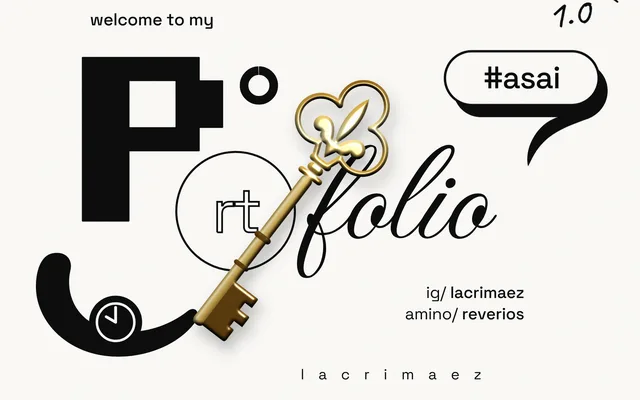
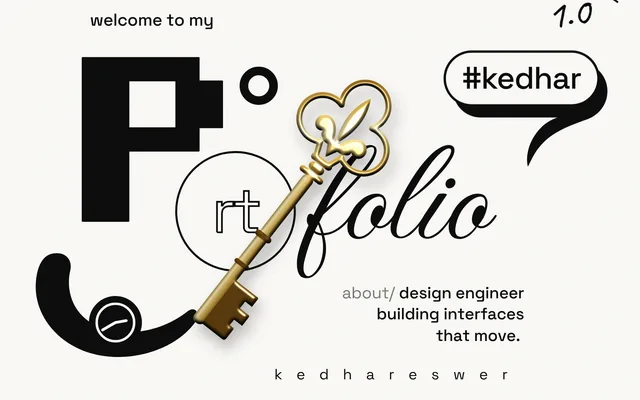
skeleton-key-preloader: make it Kedhar's own
Drop the reference moodboard's placeholder identity (#asai, lacrimaez,
amino/reverios) for Kedhar's: #kedhar tag, kedhareswer signature, and a
typed about/ block with a blinking caret in place of the handles. Links
move to the bottom bar, the clock winds to the visitor's local time, and
the loop ends on a card with the name in script and the about line. The
gate demo's page is now an about page; a test keeps the old handles out.

Claude-Session: https://claude.ai/code/session_01AgzQVJejCPn6EzuaHZcvFC

diff --git a/components/skeleton-key-preloader/skeleton-key-preloader.tsx b/components/skeleton-key-preloader/skeleton-key-preloader.tsx
@@ -4,7 +4,8 @@
 // portfolio loads, then unlocks it. The word is cut four ways: a bitmap letter
 // printed pixel by pixel, a superscript ring, a monogram inside a dial that
 // doubles as the progress ring, and the rest in quill script, with a pill tag,
-// two ink swooshes, a clock, the handles and a spaced signature around it. A
+// two ink swooshes, a clock set to the visitor's time, a typed line about you
+// and your spaced signature around it. A
 // gilded skeleton key drops in on a spring early on and hangs over the whole
 // thing.
 //
@@ -24,13 +25,6 @@
 import * as React from "react"
 
 export type SkeletonKeyMetal = "gold" | "silver" | "rose" | "bronze"
-
-export interface SkeletonKeyHandle {
-  /** The prefix, set lighter: "ig/". */
-  label: string
-  /** The handle itself: "lacrimaez". */
-  value: string
-}
 
 export interface SkeletonKeyPreloaderProps {
   /** Content revealed through the keyhole. Ignored while `loop` is set. */
@@ -58,8 +52,14 @@ export interface SkeletonKeyPreloaderProps {
   word?: string
   /** Pill tags. Tap the pill to cycle through them. */
   tags?: string[]
-  /** The stacked handles beside the script. */
-  handles?: SkeletonKeyHandle[]
+  /** Your full name: the end card and the accessible label. */
+  name?: string
+  /** The light prefix on the about block. */
+  aboutLabel?: string
+  /** A few short lines about you, typed out beside the script. */
+  about?: string[]
+  /** Where to find you, along the bottom edge. */
+  links?: string[]
   /** The letter-spaced signature along the bottom. */
   signature?: string
   /** What the handwritten version lands on at 100. It counts 0.0 → 0.9 first. */
@@ -114,7 +114,7 @@ const OPEN_MS = 1500
 const AFTER_MS = 1700
 
 // When each piece arrives, as a percentage of the load.
-const AT = { greet: 1, key: 6, sup: 14, mono: 24, tag: 33, script: 43, blob: 53, clock: 57, handles: 66, sig: 76 }
+const AT = { greet: 1, key: 6, sup: 14, mono: 24, tag: 33, script: 43, blob: 53, clock: 57, about: 64, sig: 78 }
 
 // #region timeline
 // Pure helpers, lifted out and executed by tests/skeleton-key-preloader.test.mjs.
@@ -408,11 +408,16 @@ const SKP_CSS = `
 .skp-hand { stroke: var(--skp-paper); stroke-width: 3.6; stroke-linecap: round; transform-box: view-box; transition: transform 380ms cubic-bezier(.3, 1.4, .5, 1); }
 .skp-clock:hover .skp-hand-m { animation: skp-spin 700ms linear infinite; }
 
-.skp-handles {
-  left: 640px; top: 452px; width: 250px; text-align: right; font: 400 21px/1.3 var(--skp-grotesk); letter-spacing: -.01em;
+.skp-about {
+  left: 600px; top: 452px; width: 290px; text-align: right; font: 500 21px/1.3 var(--skp-grotesk); letter-spacing: -.01em;
 }
-.skp-handles > div { white-space: pre; }
-.skp-handles b { font-weight: 500; }
+.skp-about > div { white-space: pre; }
+.skp-about i { font-style: normal; font-weight: 400; opacity: .55; }
+.skp-caret {
+  display: inline-block; width: 2px; height: .95em; margin-left: 3px; vertical-align: -.12em; background: var(--skp-ink);
+  opacity: 0; transition: opacity 200ms ease;
+}
+.skp-about[data-on="true"] .skp-caret { opacity: 1; animation: skp-blink 1s steps(1) infinite; }
 
 .skp-sig { left: 470px; top: 560px; width: 500px; text-align: center; font: 400 19px/1 var(--skp-grotesk); letter-spacing: .95em; white-space: nowrap; padding-left: .95em; }
 .skp-sig span { display: inline-block; min-width: .6em; text-align: center; opacity: 0; transition: opacity 200ms ease; }
@@ -441,7 +446,10 @@ const SKP_CSS = `
   padding: 0 clamp(16px, 3vw, 36px) clamp(16px, 3vh, 30px); font: 400 11px/1.4 var(--skp-mono); letter-spacing: .14em;
   text-transform: uppercase; color: var(--skp-ink); pointer-events: none; transition: opacity 300ms ease;
 }
-.skp-hud > span { opacity: .62; white-space: nowrap; }
+.skp-hud > span { opacity: .62; white-space: nowrap; flex: 1 1 0; }
+.skp-hud > span:nth-child(2) { text-align: center; }
+.skp-hud > span:nth-child(3) { text-align: right; }
+@media (max-width: 640px) { .skp-hud-links { display: none; } .skp-hud > span:nth-child(2) { text-align: right; } }
 .skp-hud-hint { transition: opacity 400ms ease; }
 .skp-hud-hint[data-off="true"] { opacity: 0 !important; }
 .skp-gate[data-lock="true"] .skp-hud { opacity: 0; }
@@ -457,20 +465,22 @@ const SKP_CSS = `
   position: absolute; inset: 0; z-index: 1; display: flex; flex-direction: column; align-items: center; justify-content: center; gap: 18px;
   background: var(--skp-ink); color: var(--skp-paper); text-align: center;
 }
-.skp-after-sig { font: 400 clamp(64px, 12vw, 170px)/1.2 var(--skp-script-face); padding: 0 .3em; }
-.skp-after-k { font: 400 11px/1.4 var(--skp-mono); letter-spacing: .3em; text-transform: uppercase; opacity: .7; }
+.skp-after-sig { font: 400 clamp(64px, 12vw, 170px)/1.2 var(--skp-script-face); padding: 0 .3em; animation: skp-fade 900ms 200ms ease both; }
+.skp-after-about { font: 400 clamp(15px, 1.6vw, 19px)/1.5 var(--skp-grotesk); max-width: 44ch; text-wrap: balance; opacity: .85; animation: skp-fade 900ms 500ms ease both; }
+.skp-after-k { font: 400 11px/1.4 var(--skp-mono); letter-spacing: .3em; text-transform: uppercase; opacity: .55; animation: skp-fade 900ms 800ms ease both; }
 
 @keyframes skp-fade { from { opacity: 0; } }
 @keyframes skp-flip { from { opacity: 0; transform: translateY(-.4em) rotate(-12deg); } }
 @keyframes skp-roll { from { opacity: 0; transform: translateY(.8em); } }
 @keyframes skp-rise { from { opacity: 0; translate: -50% 14px; } }
 @keyframes skp-spin { to { transform: rotate(360deg); } }
+@keyframes skp-blink { 50% { opacity: 0; } }
 @keyframes skp-beckon { 50% { transform: scale(1.045) rotate(4deg); } }
 @keyframes skp-grain { 25% { transform: translate(-3%, 2%); } 50% { transform: translate(2%, -3%); } 75% { transform: translate(-1%, -2%); } }
 @keyframes skp-shake { 20% { transform: translate(-3px, 1px); } 45% { transform: translate(2px, -1px); } 70% { transform: translate(-1px, 0); } }
 
 @media (prefers-reduced-motion: reduce) {
-  .skp-gate, .skp-grain, .skp-shake, .skp-dial-rot, .skp-ver-num span, .skp-pill span, .skp-turn, .skp-clock:hover .skp-hand-m { animation: none !important; }
+  .skp-gate, .skp-grain, .skp-shake, .skp-dial-rot, .skp-caret, .skp-after-sig, .skp-after-about, .skp-after-k, .skp-ver-num span, .skp-pill span, .skp-turn, .skp-clock:hover .skp-hand-m { animation: none !important; }
   .skp-par { translate: none; }
   .skp-ch, .skp-pill, .skp-px, .skp-clock, .skp-mono { transform: none !important; }
   .skp-script-in, .skp-tag-swoosh, .skp-blob-ink { clip-path: none !important; }
@@ -563,9 +573,11 @@ function SwooshArt() {
 }
 
 /** The ink stroke along the bottom left, with the clock riding on it. */
-function BlobArt({ pct }: { pct: number }) {
-  const m = pct * 7.2
-  const h = 210 + pct * 0.9
+function BlobArt({ pct, time }: { pct: number; time: { h: number; m: number } }) {
+  // the hands wind from twelve to the visitor's own time as the page loads
+  const k = skpEase(pct / 100)
+  const m = (360 + time.m * 6) * k
+  const h = ((time.h % 12) * 30 + time.m * 0.5) * k
   return (
     <svg viewBox="0 0 220 150" aria-hidden="true">
       <path
@@ -640,12 +652,12 @@ export default function SkeletonKeyPreloader({
   unlock = "auto",
   greeting = "welcome to my",
   word = "portfolio",
-  tags = ["#asai", "#motion", "#visuals", "#archive"],
-  handles = [
-    { label: "ig/", value: "lacrimaez" },
-    { label: "amino/", value: "reverios" },
-  ],
-  signature = "lacrimaez",
+  tags = ["#kedhar", "#design", "#motion", "#code"],
+  name = "Kedhareswer Naidu",
+  aboutLabel = "about/",
+  about = ["design engineer", "building interfaces", "that move."],
+  links = ["21st.dev/@kedhareswer", "kedhar.vercel.app"],
+  signature = "kedhareswer",
   release = "1.0",
   metal = "gold",
   paper = "#fbfaf7",
@@ -671,6 +683,7 @@ export default function SkeletonKeyPreloader({
   const [ready, setReady] = React.useState(false)
   const [drag, setDrag] = React.useState(false)
   const [reduced, setReduced] = React.useState(false)
+  const [time, setTime] = React.useState({ h: 10, m: 10 })
 
   const rootRef = React.useRef(null as HTMLDivElement | null)
   const gateRef = React.useRef(null as HTMLDivElement | null)
@@ -704,6 +717,11 @@ export default function SkeletonKeyPreloader({
     light: { x: 40, y: 60 },
     zoom: { z: 1, cx: FOCUS.x, cy: FOCUS.y },
   })
+
+  React.useEffect(() => {
+    const d = new Date()
+    setTime({ h: d.getHours(), m: d.getMinutes() })
+  }, [run])
 
   React.useEffect(() => {
     const mq = window.matchMedia("(prefers-reduced-motion: reduce)")
@@ -1048,7 +1066,8 @@ export default function SkeletonKeyPreloader({
       {loop ? null : children}
       {loop && (phase === "open" || phase === "after") ? (
         <div className="skp-after" aria-hidden="true">
-          <div className="skp-after-sig">{signature}</div>
+          <div className="skp-after-sig">{name.split(" ")[0]}</div>
+          <div className="skp-after-about">{about.join(" ")}</div>
           <div className="skp-after-k">
             {word} {release} — unlocked
           </div>
@@ -1064,7 +1083,7 @@ export default function SkeletonKeyPreloader({
           data-drag={drag}
           data-reduced={reduced}
           role="progressbar"
-          aria-label={"Loading " + word}
+          aria-label={"Loading " + name + " — " + word}
           aria-valuemin={0}
           aria-valuemax={100}
           aria-valuenow={pct}
@@ -1166,18 +1185,26 @@ export default function SkeletonKeyPreloader({
               </div>
 
               <div className="skp-abs skp-blob skp-par skp-dim" data-on={on(AT.blob)} data-clock={on(AT.clock)} style={css({ "--d": 20 })}>
-                <BlobArt pct={pct} />
+                <BlobArt pct={pct} time={time} />
               </div>
 
-              <div className="skp-abs skp-handles skp-par skp-dim" style={css({ "--d": 8 })}>
-                {handles.map((h, i) => (
-                  <div key={i} data-on={on(AT.handles)}>
-                    <Typed text={h.label + " "} delay={i * 260} />
-                    <b>
-                      <Typed text={h.value} delay={i * 260 + (h.label.length + 1) * 32} />
-                    </b>
-                  </div>
-                ))}
+              <div className="skp-abs skp-about skp-par skp-dim" data-on={on(AT.about)} style={css({ "--d": 8 })}>
+                {about.map((line, i) => {
+                  const lead = i === 0 && aboutLabel ? aboutLabel + " " : ""
+                  // each line starts typing where the one above it stopped
+                  const typedBefore = (aboutLabel ? aboutLabel.length + 1 : 0) + about.slice(0, i).join("").length
+                  return (
+                    <div key={i}>
+                      {lead ? (
+                        <i>
+                          <Typed text={lead} />
+                        </i>
+                      ) : null}
+                      <Typed text={line} delay={typedBefore * 32 + i * 140} />
+                      {i === about.length - 1 ? <span className="skp-caret" /> : null}
+                    </div>
+                  )
+                })}
               </div>
 
               <div className="skp-abs skp-sig skp-par skp-dim" data-on={on(AT.sig)} style={css({ "--d": 5 })}>
@@ -1202,6 +1229,7 @@ export default function SkeletonKeyPreloader({
               <span className="skp-hud-hint" data-off={!loading || pct < AT.key + 4 || reduced}>
                 Grab the key ↗
               </span>
+              <span className="skp-hud-links">{links.join("  ·  ")}</span>
             </div>
           ) : null}
 

diff --git a/components/skeleton-key-preloader/demo-gate.tsx b/components/skeleton-key-preloader/demo-gate.tsx
@@ -7,11 +7,11 @@ import SkeletonKeyPreloader from "@/components/ui/skeleton-key-preloader"
 // drop the key into the lock (or click it, or press Enter), then dives through
 // the keyhole onto the page. "Lock it again" remounts it.
 
-const WORK = [
-  { t: "Reverie", k: "Identity", y: "2026" },
-  { t: "Salt & Ash", k: "Editorial", y: "2025" },
-  { t: "Night Garden", k: "Motion", y: "2025" },
-  { t: "Paper Saints", k: "Type", y: "2024" },
+const SHELVES = [
+  { n: "154", k: "Open components", d: "Published on 21st.dev" },
+  { n: "19", k: "Preloaders", d: "Like the one you just unlocked" },
+  { n: "18", k: "Carousels", d: "Paper curls, shutters, ink" },
+  { n: "17", k: "Templates", d: "Whole pages, one file each" },
 ]
 
 export default function DemoGate() {
@@ -23,7 +23,7 @@ export default function DemoGate() {
         style={{ height: "100svh", padding: "clamp(20px, 4vw, 48px)" }}
       >
         <header className="flex items-center justify-between text-xs uppercase tracking-[0.2em] text-muted-foreground">
-          <span>lacrimaez — portfolio 1.0</span>
+          <span>Kedhareswer Naidu — portfolio 1.0</span>
           <button
             onClick={() => setKey((k) => k + 1)}
             className="rounded-full border border-border px-4 py-2 transition-colors hover:bg-foreground hover:text-background"
@@ -31,18 +31,18 @@ export default function DemoGate() {
             Lock it again
           </button>
         </header>
-        <h1 className="font-medium leading-[0.9] tracking-tight" style={{ fontSize: "clamp(44px, 9vw, 140px)" }}>
-          Selected work,
-          <br />
-          <span className="text-muted-foreground">unlocked.</span>
-        </h1>
+        <div>
+          <p className="mb-4 text-xs uppercase tracking-[0.2em] text-muted-foreground">About</p>
+          <h1 className="max-w-[16ch] font-medium leading-[0.95] tracking-tight" style={{ fontSize: "clamp(40px, 7.5vw, 120px)" }}>
+            Design engineer, building interfaces <span className="text-muted-foreground">that move.</span>
+          </h1>
+        </div>
         <ul className="grid gap-px overflow-hidden rounded-xl border border-border bg-border sm:grid-cols-4">
-          {WORK.map((w) => (
-            <li key={w.t} className="flex flex-col gap-6 bg-background p-5">
-              <span className="text-xs uppercase tracking-widest text-muted-foreground">
-                {w.k} · {w.y}
-              </span>
-              <span className="text-lg font-medium">{w.t}</span>
+          {SHELVES.map((s) => (
+            <li key={s.k} className="flex flex-col gap-1 bg-background p-5">
+              <span className="text-3xl font-medium tracking-tight">{s.n}</span>
+              <span className="text-sm font-medium">{s.k}</span>
+              <span className="text-xs text-muted-foreground">{s.d}</span>
             </li>
           ))}
         </ul>

diff --git a/components/skeleton-key-preloader/demo-noir.tsx b/components/skeleton-key-preloader/demo-noir.tsx
@@ -2,7 +2,7 @@
 
 import SkeletonKeyPreloader from "@/components/ui/skeleton-key-preloader"
 
-// Ink on black with a silver key: your own word, tags, handles and signature.
+// Ink on black with a silver key and a 2.0 release.
 export default function DemoNoir() {
   return (
     <SkeletonKeyPreloader
@@ -10,14 +10,7 @@ export default function DemoNoir() {
       paper="#0e0e0f"
       ink="#f1eee8"
       metal="silver"
-      greeting="you found the"
-      word="archive"
-      tags={["#noir", "#film", "#stills"]}
-      handles={[
-        { label: "ig/", value: "noctua.lab" },
-        { label: "vimeo/", value: "noctua" },
-      ]}
-      signature="noctua"
+      tags={["#kedhar", "#noir", "#motion"]}
       release="2.0"
       durationMs={5400}
     />

diff --git a/components/skeleton-key-preloader/README.md b/components/skeleton-key-preloader/README.md
@@ -1,7 +1,8 @@
 # Skeleton Key Preloader
 
-A loading gate for a portfolio. While the page loads, a typographic collage
-puts itself together, and a gilded skeleton key unlocks it at 100.
+A loading gate for a portfolio, set up as Kedhar's own. While the page loads,
+a typographic collage puts itself together, with a line about who's behind
+it, and a gilded skeleton key unlocks it at 100.
 
 ## The storyboard
 
@@ -10,17 +11,17 @@ puts itself together, and a gilded skeleton key unlocks it at 100.
 | 0–40% | `welcome to my` types in. The first letter of the word prints pixel by pixel from a faint dot grid, top to bottom, like a print head. |
 | 6% | The key drops in on a spring and settles diagonally across the collage, bobbing a little. |
 | 6–96% | The dial around the monogram draws itself. It is the progress ring. |
-| 14–76% | The superscript ring draws, the monogram is outlined stroke by stroke, the `#tag` pill drops in while its ink swoosh brushes out behind it, the script half of the word writes itself left to right, the ink stroke pours in with a clock that keeps load time, the handles type, and the signature scrambles into place. |
+| 14–76% | The superscript ring draws, the monogram is outlined stroke by stroke, the `#tag` pill drops in while its ink swoosh brushes out behind it, the script half of the word writes itself left to right, the ink stroke pours in with a clock that winds to the visitor's local time, the about lines type out with a blinking caret, and the signature scrambles into place. |
 | 0 → 100 | The handwritten version counts `0.0 → 0.9`. |
 | 100 | The version flips to the release and gets circled. Everything else dims. The monogram melts into a keyhole and the dial grows ticks. |
-| unlock | The key swings upright over the keyhole and slides in. It turns a quarter turn (in 3D, so the bow goes edge-on), the dial clicks round 90° and the collage shakes. The camera then dives through the keyhole onto the page underneath. |
+| unlock | The key swings upright over the keyhole and slides in. It turns a quarter turn (in 3D, so the bow goes edge-on), the dial clicks round 90° and the collage shakes. The camera then dives through the keyhole onto the page underneath. In `loop` it lands on an end card with your name in script and the about line. |
 
 **Interactive.** You can grab the key and throw it around while the page loads.
 It tilts with your speed and springs back when you let go, and a tap makes it
 jingle. Your pointer is the light source on the metal, so the highlight follows
 you across the bow and shaft. The layers drift in parallax. Hover the pixels and
 they catch the key's colour. Tap the pill to cycle through the tags, and hover the
-clock to spin it.
+clock to spin its minute hand.
 
 **`unlock="key"`.** The gate holds at 100 until the visitor drops the key into
 the lock, clicks it, presses Enter, or uses the "Turn the key" button.
@@ -43,8 +44,11 @@ import SkeletonKeyPreloader from "@/components/ui/skeleton-key-preloader"
 
 <SkeletonKeyPreloader
   unlock="key"
-  word="archive"
-  tags={["#noir", "#film"]}
+  name="Your Name"
+  signature="yourname"
+  tags={["#you", "#design"]}
+  about={["product designer", "in love with", "small details."]}
+  links={["you.dev", "@you"]}
   metal="silver"
   paper="#0e0e0f"
   ink="#f1eee8"
@@ -62,13 +66,16 @@ import SkeletonKeyPreloader from "@/components/ui/skeleton-key-preloader"
 | `unlock` | `"auto"` | `"auto"` turns the key by itself. `"key"` waits for the visitor. |
 | `greeting` | `"welcome to my"` | The small line over the wordmark. |
 | `word` | `"portfolio"` | Cut four ways: the first letter in pixels, the second as a superscript (an `o` becomes a ring), the next two in the dial, the rest in script. |
-| `tags` | `#asai`, `#motion`, `#visuals`, `#archive` | Pill tags. Tap to cycle. |
-| `handles` | `ig/ lacrimaez`, `amino/ reverios` | `{ label, value }[]`, stacked beside the script. |
-| `signature` | `"lacrimaez"` | Letter-spaced along the bottom, and the loop's end card. |
+| `tags` | `#kedhar`, `#design`, `#motion`, `#code` | Pill tags. Tap to cycle. |
+| `name` | `"Kedhareswer Naidu"` | The end card (first name, in script) and the accessible label. |
+| `aboutLabel` | `"about/"` | The light prefix on the about block. Empty string drops it. |
+| `about` | design engineer / building interfaces / that move. | Short lines typed out beside the script, and joined on the end card. |
+| `links` | `21st.dev/@kedhareswer`, `kedhar.vercel.app` | Along the bottom edge (hidden under 640px wide). |
+| `signature` | `"kedhareswer"` | Letter-spaced along the bottom. |
 | `release` | `"1.0"` | What the version lands on at 100. |
 | `metal` | `"gold"` | `"gold"`, `"silver"`, `"rose"` or `"bronze"`. |
 | `paper` / `ink` | `#fbfaf7` / `#0d0d0d` | The two colours of the whole collage. |
-| `hud` | `true` | The status line and the "grab the key" hint along the bottom edge. |
+| `hud` | `true` | The status, the "grab the key" hint and your links along the bottom edge. |
 | `fontHref` | Google Fonts URL | Stylesheet for the faces. `null` loads nothing. |
 | `height` | `100svh` | A definite length, never a percentage. |
 | `onComplete` | — | Fired once, after the camera has gone through the keyhole. |
